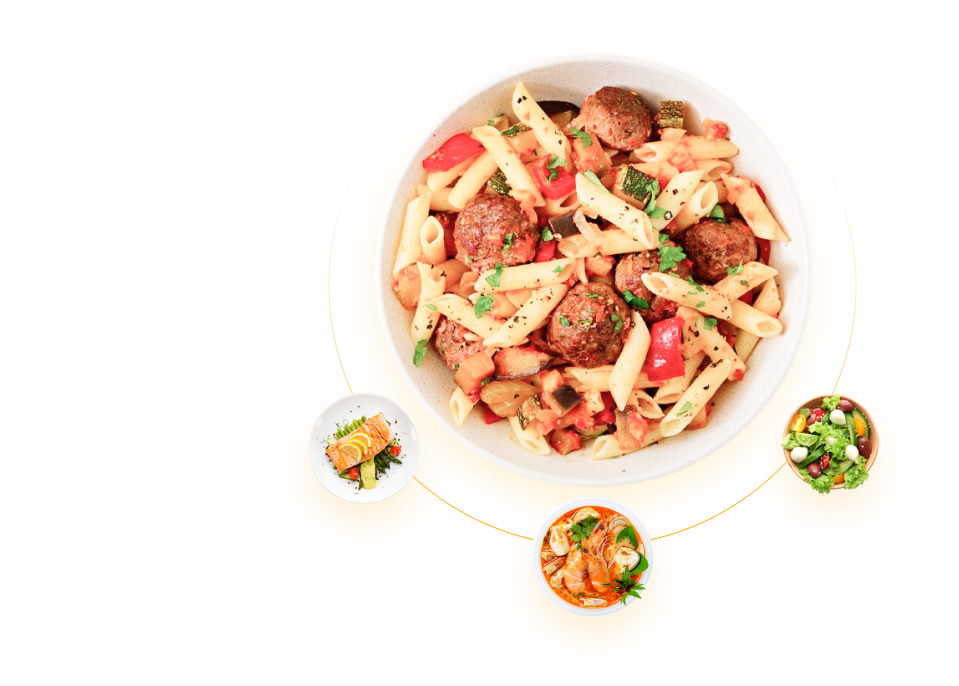
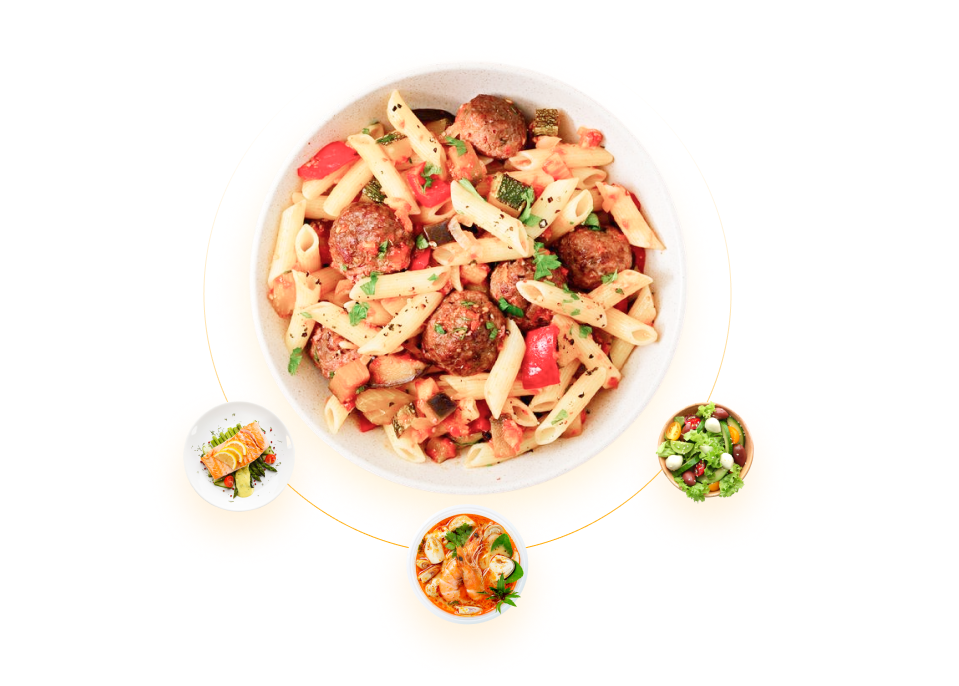
add mobile adaptive

diff --git a/src/scss/components/blocks/reataurant/_restaurant.scss b/src/scss/components/blocks/reataurant/_restaurant.scss
@@ -7,9 +7,22 @@
     justify-content: start;
     margin-top: rem(40px);
     background-color: #fffefc;
+    @include mobile {
+        display: flex;
+        flex-direction: column-reverse;
+        justify-content: center;
+        align-items: center;
+        padding: 10px;
+    }
+    @include smalltablet {
+        flex-direction: column-reverse;
+    }
 }
 .home__left {
     width: rem(590px);
+    @include mobile {
+        width: 100%;
+    }
 }
 
 .line {
@@ -20,6 +33,10 @@
     width: 52px;
     height: 52px;
     flex-shrink: 0;
+    @include mobile {
+        width: 38px;
+        height: 38px;
+    }
 }
 .home__title {
     color: #232323;
@@ -29,6 +46,9 @@
     font-weight: 800;
     line-height: 108px;
     @include fontface("Gilroy", "Gilroy-ExtraBold", 800, normal);
+    @include mobile {
+        font-size: 48px;
+    }
 }
 .home_subtitle {
     margin-top: rem(13px);
@@ -56,4 +76,13 @@
 }
 .home__right {
     // box-shadow: $shadowBtn;
+    @include mobile {
+        display: none;
+        width: 200px;
+        margin-left: -620px;
+    }
+    @include smalltablet {
+        // display: inline;
+        margin-left: -220px;
+    }
 }

diff --git a/src/scss/components/blocks/about/_about.scss b/src/scss/components/blocks/about/_about.scss
@@ -24,10 +24,24 @@
     justify-content: space-between;
     margin-top: rem(40px);
     background-color: #fffefc;
+    @include mobile {
+        display: flex;
+        flex-direction: column-reverse;
+        justify-content: center;
+        align-items: center;
+        padding: 10px;
+    }
+    @include smalltablet {
+        flex-direction: column-reverse;
+    }
 }
 .about__left {
     margin-top: 140px;
     width: rem(560px);
+    @include mobile {
+        width: 100%;
+        margin-bottom: 40px;
+    }
 }
 .about__menu {
     display: flex;
@@ -53,6 +67,9 @@
     font-weight: 800;
     // line-height: 60px; /* 115.385% */
     @include fontface("Gilroy", "Gilroy-ExtraBold", 800, normal);
+    @include mobile {
+        font-size: 48px;
+    }
 }
 .about_subtitle {
     margin-top: rem(13px);
@@ -75,4 +92,11 @@
     // object-fit: cover;
     margin-top: -120px;
     margin-left: -150px;
+    @include mobile {
+        width: 500px;
+        margin-left: 30px;
+    }
+    @include smalltablet {
+        // flex-direction: column-reverse;
+    }
 }

diff --git a/src/scss/components/blocks/features/_features.scss b/src/scss/components/blocks/features/_features.scss
@@ -10,6 +10,17 @@
     flex-direction: column;
     justify-content: center;
     align-items: center;
+    @include smalltablet {
+        width: 300px;
+        // display: flex;
+        // flex-direction: column-reverse;
+        justify-content: center;
+        align-items: center;
+        padding: 10px;
+    }
+    // @include smalltablet {
+    //     // flex-direction: column-reverse;
+    // }
 }
 .service {
     color: #2e2e2e;
@@ -17,6 +28,9 @@
     font-size: 48px;
     font-weight: 700;
     margin-bottom: 57px;
+    @include mobile {
+        font-size: 32px;
+    }
 }
 .delivery {
     display: flex;
@@ -24,6 +38,9 @@
     align-items: center;
     gap: 118px;
     margin-bottom: 110px;
+    @include tablet {
+        flex-direction: column;
+    }
 }
 .delivery__service {
     display: flex;

diff --git a/src/scss/components/blocks/recipes/_recipes.scss b/src/scss/components/blocks/recipes/_recipes.scss
@@ -1,4 +1,5 @@
 @use "../../../tools/vars/index" as *;
+@use "../../../tools/mixins/index" as *;
 
 .recipes__wrapper {
     padding-top: 87px;
@@ -35,14 +36,20 @@
     font-weight: 700;
     margin-bottom: 57px;
 }
-// .recipes__img {
-// }
+.recipes__img {
+    @include mobile {
+        display: none;
+    }
+}
 .recipes__cards {
     margin-bottom: 55px;
     padding-top: 74px;
     display: flex;
     gap: 54px;
     // background: $orangeBackGroundBtn;
+    @include tablet {
+        flex-direction: column;
+    }
 }
 .card {
     background-color: #fff;
@@ -56,6 +63,9 @@
     justify-content: space-between;
     height: 120px;
     padding: 0 10px;
+    // @include tablet {
+    //     flex-direction: column;
+    // }
 }
 .card__left {
     display: flex;

diff --git a/src/scss/components/blocks/wrapper/_footer.scss b/src/scss/components/blocks/wrapper/_footer.scss
@@ -1,3 +1,5 @@
+@use "../../../tools/mixins/index" as *;
+
 .footer {
     padding-top: 83px;
     padding-bottom: 100px;
@@ -16,6 +18,12 @@
     align-items: flex-start;
     //  justify-content: center;
     gap: 171px;
+    @include tablet {
+        flex-direction: column;
+        justify-content: center;
+        align-items: center;
+        gap: 60px;
+    }
 }
 .contact {
     display: flex;
@@ -63,6 +71,11 @@
     width: 100%;
     align-items: center;
     justify-content: space-between;
+    @include tablet {
+        flex-direction: column;
+        align-items: center;
+        align-content: center;
+    }
 }
 .footer__menu {
     display: flex;

diff --git a/src/scss/components/layout/_body.scss b/src/scss/components/layout/_body.scss
@@ -70,14 +70,31 @@ body {
 .wrapper__img {
     position: relative;
     margin-top: 62px;
+    // @include mobile {
+    //     display: flex;
+    //     flex-direction: column-reverse;
+    //     justify-content: center;
+    //     align-items: center;
+    //     padding: 10px;
+    // }
+    // @include smalltablet {
+    //     flex-direction: column-reverse;
+    // }
 }
 .img__left {
     position: absolute;
     top: -110px;
     left: 0;
+    @include mix.tablet {
+        width: 100px;
+    }
 }
 .img__right {
     position: absolute;
     top: -160px;
     right: 0;
+    @include mix.tablet {
+        width: 100px;
+        top: -80px;
+    }
 }

diff --git a/src/scss/components/blocks/takeaway/_takeaway.scss b/src/scss/components/blocks/takeaway/_takeaway.scss
@@ -1,3 +1,5 @@
+@use "../../../tools/mixins/index" as *;
+
 .takeaway__block {
 }
 
@@ -10,9 +12,16 @@
 }
 .takeaway__left {
     margin-top: 131px;
+    @include tablet {
+        display: none;
+    }
 }
 .img {
 }
 .takeaway__right {
     width: 450px;
+    @include tablet {
+        width: 100%;
+        padding-bottom: 40px;
+    }
 }
